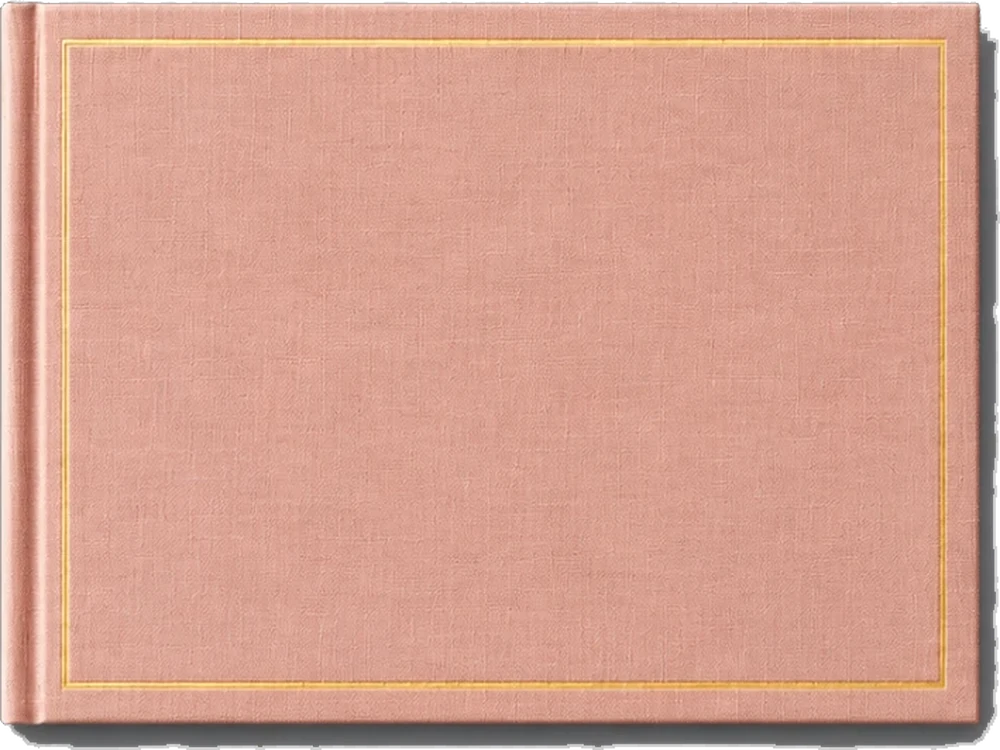
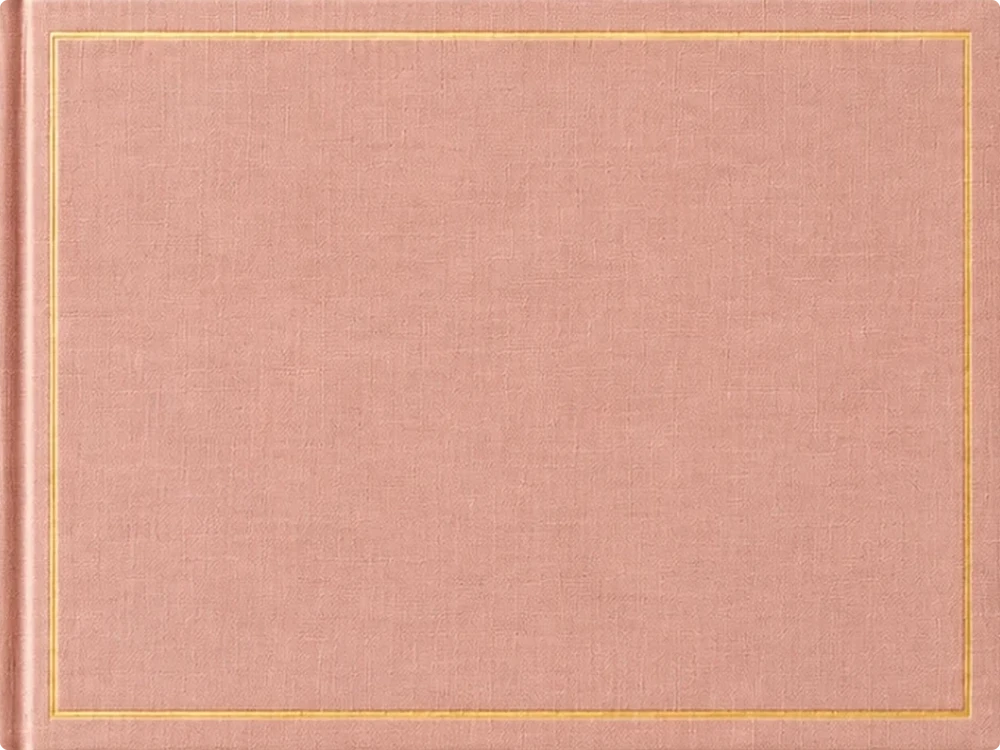
Bibliothek-Knopf zeigt das eigene Regal mit Büchern je Design; Lady-Cover sauber freigestellt (1.87.0)

Changed region(s): [[0.0, 0.0, 1.0, 1.0]]

diff --git a/index.html b/index.html
@@ -92,6 +92,9 @@ button, input, select, textarea{ font-family:inherit; }
 #tb-library-btn{ color:var(--ew-text); }
 #tb-library-btn svg{ display:block; }
 .tb-lib-ico{ width:28px; height:30px; object-fit:contain; display:block; }
+/* the library button shows each design's own shelf (since 1.87.0) */
+html #tb-library-btn.icon-btn{ border:none !important; background:none !important; box-shadow:none !important; width:auto; height:auto; min-width:0; padding:0 4px; }
+#tb-library-btn .tb-lib-ico.tb-lib-shelf{ width:auto; height:40px; filter:drop-shadow(0 1px 1.5px rgba(0,0,0,.35)) !important; }
 #sync-btn{ position:relative; }
 #sync-btn svg{ width:30px; height:30px; display:block; }
 #sync-btn::after{ content:''; position:absolute; top:5px; right:5px; width:8px; height:8px; border-radius:50%; background:transparent; }
@@ -1803,7 +1806,7 @@ html.theme-retreat .shelf-orchid{ position:absolute; left:0; bottom:-3%; height:
 <!-- Tagebuch (Diary) -->
 <div class="tb-overlay" id="tb-overlay">
   <div class="tb-topbar">
-    <button class="icon-btn" id="tb-library-btn" title="Bibliothek"><img class="tb-lib-ico" src="img/icons/ico-library.webp" alt=""></button>
+    <button class="icon-btn" id="tb-library-btn" title="Bibliothek"><img class="tb-lib-ico tb-lib-shelf" src="img/shelf-icon.webp" alt=""></button>
     <h2 id="tb-title">Tagebuch</h2>
     <div class="tb-topnav" id="tb-topnav"></div>
     <div style="display:flex;gap:8px;align-items:center;">
@@ -1815,7 +1818,7 @@ html.theme-retreat .shelf-orchid{ position:absolute; left:0; bottom:-3%; height:
 
 <script>
 /* Bump on every published update, so it's visible at a glance whether the newest version is loaded. */
-const APP_VERSION = '1.86.9';
+const APP_VERSION = '1.87.0';
 /* Design (since 1.80.0, see the small script in <head>): in "Business" (BIZ) the gold paper icons are swapped for plain line
    icons (img/icons-rl/*.svg) wherever they appear – also in everything drawn later – so the rest of the code stays as it is. */
 // A Lady's Conservatory (1.84.0, named so since 1.86.1; key 'retreat' and RETREAT stay): light, cream and forest green; until its own pictures come it uses those of A Gentleman's Study (with the
@@ -6109,6 +6112,7 @@ document.getElementById('tb-mode-toggle-btn').onclick = ()=>{
   if(!tbEditMode && tbPageIdx===0){ /* stay on title page, fine either way */ }
   tbRender();
 };
+document.querySelector('#tb-library-btn .tb-lib-shelf').src = RETREAT ? 'img/rt/shelf-icon.webp' : BIZ ? 'img/rl/shelf-icon.webp' : 'img/shelf-icon.webp';
 document.getElementById('tb-library-btn').onclick = ()=>{ tbView='library'; tbRender(); };
 
 /* The diary page on tablets and computers: as wide as the screen allows (less the margins), and everything on it grows in

diff --git a/CLAUDE.md b/CLAUDE.md
@@ -125,7 +125,7 @@ Der Nutzer ist kein Entwickler. Erkläre Schritte einfach und auf Deutsch.
 - Veröffentlicht über **GitHub Pages** aus diesem Repository (Branch `main`, Ordner `/`):
   https://k9vk58y99f-max.github.io/k9vk58y99f-max.github.io-ewolfe-app-/
 - Ein Commit + Push auf `main` ist die Veröffentlichung; nach 1–2 Minuten ist es live.
-- Bei jeder Änderung `APP_VERSION` erhöhen (aktuell `1.86.9`) und `APP_BUILD` anpassen.
+- Bei jeder Änderung `APP_VERSION` erhöhen (aktuell `1.87.0`) und `APP_BUILD` anpassen.
   Die Version steht unten in der App.
 
 ## Neu seit 1.55.0 (iPad, Wischen, Tagebuch, Sticker, Impulskarten)
@@ -371,6 +371,9 @@ Vor jedem Push: Syntax prüfen und die betroffenen Abläufe testen. Daten des Nu
 - **Seit 1.86.9 die Papier-Gegenstände statt Kugeln in A Mystery World** (`CLASSIC_READY` voll): Steuerrad, Pokal, Taschenuhr, Fernrohr,
   großer Pokal, Bücherstapel 1–4 (`img/trophy-*.webp`, goldener Low-Poly-Stil mit Funkeln, von Navy freigestellt; Stapel mit eigener
   Skalierung je Stufe). Flugzeug und Oldtimer gab es schon. Originale: „1 Harry Potter Style/A Grafiken/Originale ChatGPT“.
+- **Seit 1.87.0 Bibliothek-Knopf = das eigene Regal des Designs mit Büchern** (`img/shelf-icon.webp` A Mystery World, `img/rl/shelf-icon.webp`,
+  `img/rt/shelf-icon.webp`; aus den Regalbildern mit eingesetzten Buchrücken gerechnet, Skript `shelficon.py` im Scratchpad), 40 px hoch,
+  ohne Kasten (`.tb-lib-shelf`). Lady-Cover (`rt/covers/*`) neu freigestellt: grauer Schattenrand rechts/unten weggeschnitten, gerade Kanten.
 - Seit 1.83.2: neue Zitronen-Glocken (Zitronenzweig: Blüten → grüne Frucht → gelbe Zitrone), schmaler (Seitenverhältnis 0,70). Übungsbilder für die Achtsamkeit (Lotus, Kirschzweig, Zitrone, Steine, Herzen, Klangschale, Glocke, Decke) liegen im Sammelordner unter „Originale ChatGPT/Achtsamkeit“, noch nicht eingebaut.
 
 ## Drittes Design „A Lady's Conservatory“ (seit 1.84.0, bis 1.86.0 „A Morning Retreat“)
